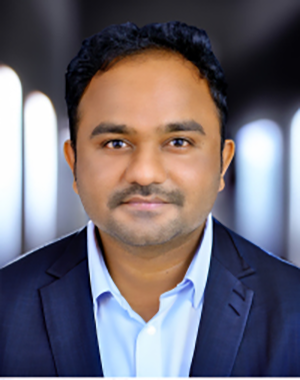
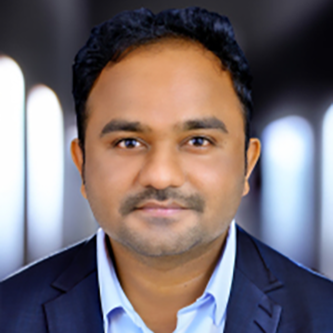
-added new speakers

diff --git a/index.html b/index.html
@@ -200,6 +200,32 @@
           </div>
           <div class="speaker-wrapper">
             <div class="speaker">
+              <img src="img/speakers/Carl Yang.png" alt="Speaker 2" class="img-fluid">
+              <div class="details">
+                <h3><a href="#speakers">Carl Yang</a></h3>
+                <p>Assistant Professor, Department of Computer Science at Emory University</p>
+                <div class="social">
+                  <a href="https://scholar.google.com/citations?user=mOINlwcAAAAJ&hl=en" target="_blank" rel="noopener noreferrer"><i class="fa fa-google-plus"></i></a>
+                  <a href="https://www.linkedin.com/in/carlyang81" target="_blank" rel="noopener noreferrer"><i class="fa fa-linkedin"></i></a>
+                </div>
+              </div>
+            </div>
+          </div> 
+          <div class="speaker-wrapper">
+            <div class="speaker">
+              <img src="img/speakers/Rui Zhang.jpg" alt="Speaker 2" class="img-fluid">
+              <div class="details">
+                <h3><a href="#speakers">Rui Zhang</a></h3>
+                <p>Professor and Chief, Division of Computational Health Sciences, Department of Surgery (UMN)</p>
+                <div class="social">
+                  <a href="https://med.umn.edu/bio/rui-zhang" target="_blank" rel="noopener noreferrer"><i class="fa fa-google-plus"></i></a>
+                  <a href="https://www.linkedin.com/in/rui-zhang-003065b" target="_blank" rel="noopener noreferrer"><i class="fa fa-linkedin"></i></a>
+                </div>
+              </div>
+            </div>
+          </div> 
+          <div class="speaker-wrapper">
+            <div class="speaker">
               <img src="img/speakers//Yonghui Wu.png" alt="Speaker 2" class="img-fluid">
               <div class="details">
                 <h3><a href="#speakers">Yonghui Wu</a></h3>
@@ -207,6 +233,19 @@
                 <div class="social">
                   <a href="https://scholar.google.com/citations?user=bMWMlk4AAAAJ&hl=en" target="_blank" rel="noopener noreferrer"><i class="fa fa-google-plus"></i></a>
                   <a href="https://www.linkedin.com/in/yonghui-wu-86925660" target="_blank" rel="noopener noreferrer"><i class="fa fa-linkedin"></i></a>
+                </div>
+              </div>
+            </div>
+          </div>
+          <div class="speaker-wrapper">
+            <div class="speaker">
+              <img src="img/speakers/Mohammad Beheshti.png" alt="Speaker 2" class="img-fluid">
+              <div class="details">
+                <h3><a href="#speakers">Mohammad Beheshti</a></h3>
+                <p>Senior Health Program Specialist, Missouri Cancer Registry and Research Center at University of Missouri</p>
+                <div class="social">
+                  <a href="https://scholar.google.com/citations?user=uneTqTQAAAAJ&hl=en" target="_blank" rel="noopener noreferrer"><i class="fa fa-google-plus"></i></a>
+                  <a href="https://www.linkedin.com/in/mobeheshti" target="_blank" rel="noopener noreferrer"><i class="fa fa-linkedin"></i></a>
                 </div>
               </div>
             </div>
@@ -237,19 +276,58 @@
               </div>
             </div>
           </div>
-          <!-- <div class="speaker-wrapper">
+          <div class="speaker-wrapper">
             <div class="speaker">
-              <img src="img/speakers/kaleb smith.png" alt="Speaker 6" class="img-fluid">
+              <img src="img/speakers/Huan He.png" alt="Speaker 6" class="img-fluid">
               <div class="details">
-                <h3><a href="#speakers">Kaleb Smith</a></h3>
-                <p>Senior Healthcare AI Scientist, NVIDIA</p>
+                <h3><a href="#speakers">Huan He</a></h3>
+                <p>Research Scientist, School of Medicine at Yale University</p>
                 <div class="social">
-                  <a href="https://scholar.google.com/citations?user=pO0jk84AAAAJ&hl=en" target="_blank" rel="noopener noreferrer"><i class="fa fa-google-plus"></i></a>
-                  <a href="https://www.linkedin.com/in/kalebesmith/" target="_blank" rel="noopener noreferrer"><i class="fa fa-linkedin"></i></a>
+                  <a href="https://scholar.google.com/citations?user=OFroytAAAAAJ&hl=en" target="_blank" rel="noopener noreferrer"><i class="fa fa-google-plus"></i></a>
+                  <a href="https://www.linkedin.com/in/huanhe2112" target="_blank" rel="noopener noreferrer"><i class="fa fa-linkedin"></i></a>
                 </div>
               </div>
             </div>
-          </div> -->
+          </div>
+          <div class="speaker-wrapper">
+            <div class="speaker">
+              <img src="img/speakers/Huanmei Wu.png" alt="Speaker 2" class="img-fluid">
+              <div class="details">
+                <h3><a href="#speakers">Huanmei Wu</a></h3>
+                <p>Department Chair and Professor, Health Services Administration and Policy at Temple University</p>
+                <div class="social">
+                  <a href="https://scholar.google.com/citations?user=74eQdvQAAAAJ&hl=en" target="_blank" rel="noopener noreferrer"><i class="fa fa-google-plus"></i></a>
+                  <a href="https://www.linkedin.com/in/huanmei-wu-phd-famia-9aa8b627" target="_blank" rel="noopener noreferrer"><i class="fa fa-linkedin"></i></a>
+                </div>
+              </div>
+            </div>
+          </div> 
+          <div class="speaker-wrapper">
+            <div class="speaker">
+              <img src="img/speakers/Jinsong Liu.png" alt="Speaker 2" class="img-fluid">
+              <div class="details">
+                <h3><a href="#speakers">Jinsong Liu</a></h3>
+                <p>Weill Cornell Medicine</p>
+                <div class="social">
+                  <i class="fa fa-google-plus"></i>
+                  <i class="fa fa-linkedin"></i>
+                </div>
+              </div>
+            </div>
+          </div> 
+          <div class="speaker-wrapper">
+            <div class="speaker">
+              <img src="img/speakers/Katherine Brown.png" alt="Speaker 2" class="img-fluid">
+              <div class="details">
+                <h3><a href="#speakers">Katherine Brown</a></h3>
+                <p>Weill Cornell Medicine</p>
+                <div class="social">
+                  <i class="fa fa-google-plus"></i>
+                  <i class="fa fa-linkedin"></i>
+                </div>
+              </div>
+            </div>
+          </div>
         </div>
       </div>
 
@@ -342,30 +420,36 @@
                 <!-- First Speaker -->
                 <div class="d-flex align-items-center mb-3">
                   <div class="speaker">
-                    <i class="fa fa-user-circle" style="font-size:50px;"></i>
+                    <img src="img/speakers/Mohammad Beheshti.png" alt="Mohammad Beheshti">
                   </div>
                   <div class="ml-3">
                     <p>
-                      <strong>Leveraging Open-Source Large Language Models for Automated Patient Record Linkage at Central Cancer Registries</strong><br>
-                      Authors: Mohammad Beheshti, Lovedeep Gondara, Mihail Popescu, Prasad Calyam, Iris Zachary
+                      Leveraging Open-Source Large Language Models for Automated Patient Record Linkage at Central Cancer Registries
                       <a href="slides/KDDM_Presentation_Beheshti.pdf" target="_blank"><i class="fa fa-file-powerpoint-o" style="margin-left:6px;"></i> [Slide deck]</a>
                     </p>
                   </div>
                 </div>
 
                 <!-- Second Speaker -->
-                <div class="d-flex align-items-center mb-3">
-                <div class="speaker">
-                  <i class="fa fa-user-circle" style="font-size:50px;"></i>
+                <div class="d-flex align-items-start mb-3">
+                  <div class="d-flex flex-column align-items-center">
+                    <div class="speaker mb-2">
+                      <img src="img/speakers/Jinsong Liu.png" alt="Jinsong Liu">
+                    </div>
+                    <div class="speaker">
+                      <img src="img/speakers/Katherine Brown.png" alt="Katherine Brown">
+                    </div>
+                  </div>
+                  <div class="ml-3">
+                    <p>
+                      Predicting Emergency Department Return Visit Admission Using Retrieval Augmented In-context Learning
+                      <a href="slides/Jinsong_Liu_AMIA2025_KDDM_WG.pdf" target="_blank">
+                        <i class="fa fa-file-powerpoint-o" style="margin-left:6px;"></i> [Slide deck]
+                      </a>
+                    </p>
+                  </div>
                 </div>
-                <div class="ml-3">
-                  <p>
-                  <strong>Predicting Emergency Department Return Visit Admission Using Retrieval Augmented In-context Learning</strong><br>
-                  Authors: Jinsong Liu, Katherine Brown, Jessica S. Ancker, Arindam Roychoudhury, Numa Moliere, Adam Wright, Anthony Rosen, Jin Ho Han, Peter A D Steel and Yiye Zhang
-                  <a href="slides/Jinsong_Liu_AMIA2025_KDDM_WG.pdf" target="_blank"><i class="fa fa-file-powerpoint-o" style="margin-left:6px;"></i> [Slide deck]</a>
-                </p>
-                </div>
-              </div>
+
               </div>
             </div>
 
@@ -391,12 +475,11 @@
                 <h4>Demo Showcase <span>20 min</span></h4>
                     <div class="d-flex align-items-center mb-3">
                       <div class="speaker">
-                        <i class="fa fa-user-circle" style="font-size:50px;"></i>
+                        <img src="img/speakers/Huan He.png" alt="Huan He">
                       </div>
                       <div class="ml-3">
                         <p>
-                          <strong>MedViz: A New Tool for Exploring Biomedical Literature using Large Language Models and Visual Analytics</strong><br>
-                          Authors: Huan He, Xueqing Peng, Yutong Xie, Qijia Liu, Chia-Hsuan Chang, Lingfei Qian, Brian Ondov, Qiaozhu Mei and Hua Xu
+                          MedViz: A New Tool for Exploring Biomedical Literature using Large Language Models and Visual Analytics
                           <a href="slides/Huan_He_AMIA_KDDM_2025_MedViz-v1.0.pdf" target="_blank"><i class="fa fa-file-powerpoint-o" style="margin-left:6px;"></i> [Slide deck]</a>
                         </p>
                       </div>
@@ -404,12 +487,11 @@
 
                     <div class="d-flex align-items-center mb-3">
                       <div class="speaker">
-                        <i class="fa fa-user-circle" style="font-size:50px;"></i>
+                        <img src="img/speakers/Huanmei Wu.png" alt="Huanmei Wu">
                       </div>
                       <div class="ml-3">
                         <p>
-                          <strong>SYNC-Smart: Your Next Companion For Parkinson’s Disease</strong><br>
-                          Authors: Yingting Wu, Anway Bose, Li Bai, Huanmei Wu, Lisa Ferretti and Philip McCallion
+                          SYNC-Smart: Your Next Companion For Parkinson’s Disease
                           <a href="slides/Wu_Huanmei_AMIA_KDDM_presentation.pdf" target="_blank"><i class="fa fa-file-powerpoint-o" style="margin-left:6px;"></i> [Slide deck]</a>
                         </p>
                       </div>
